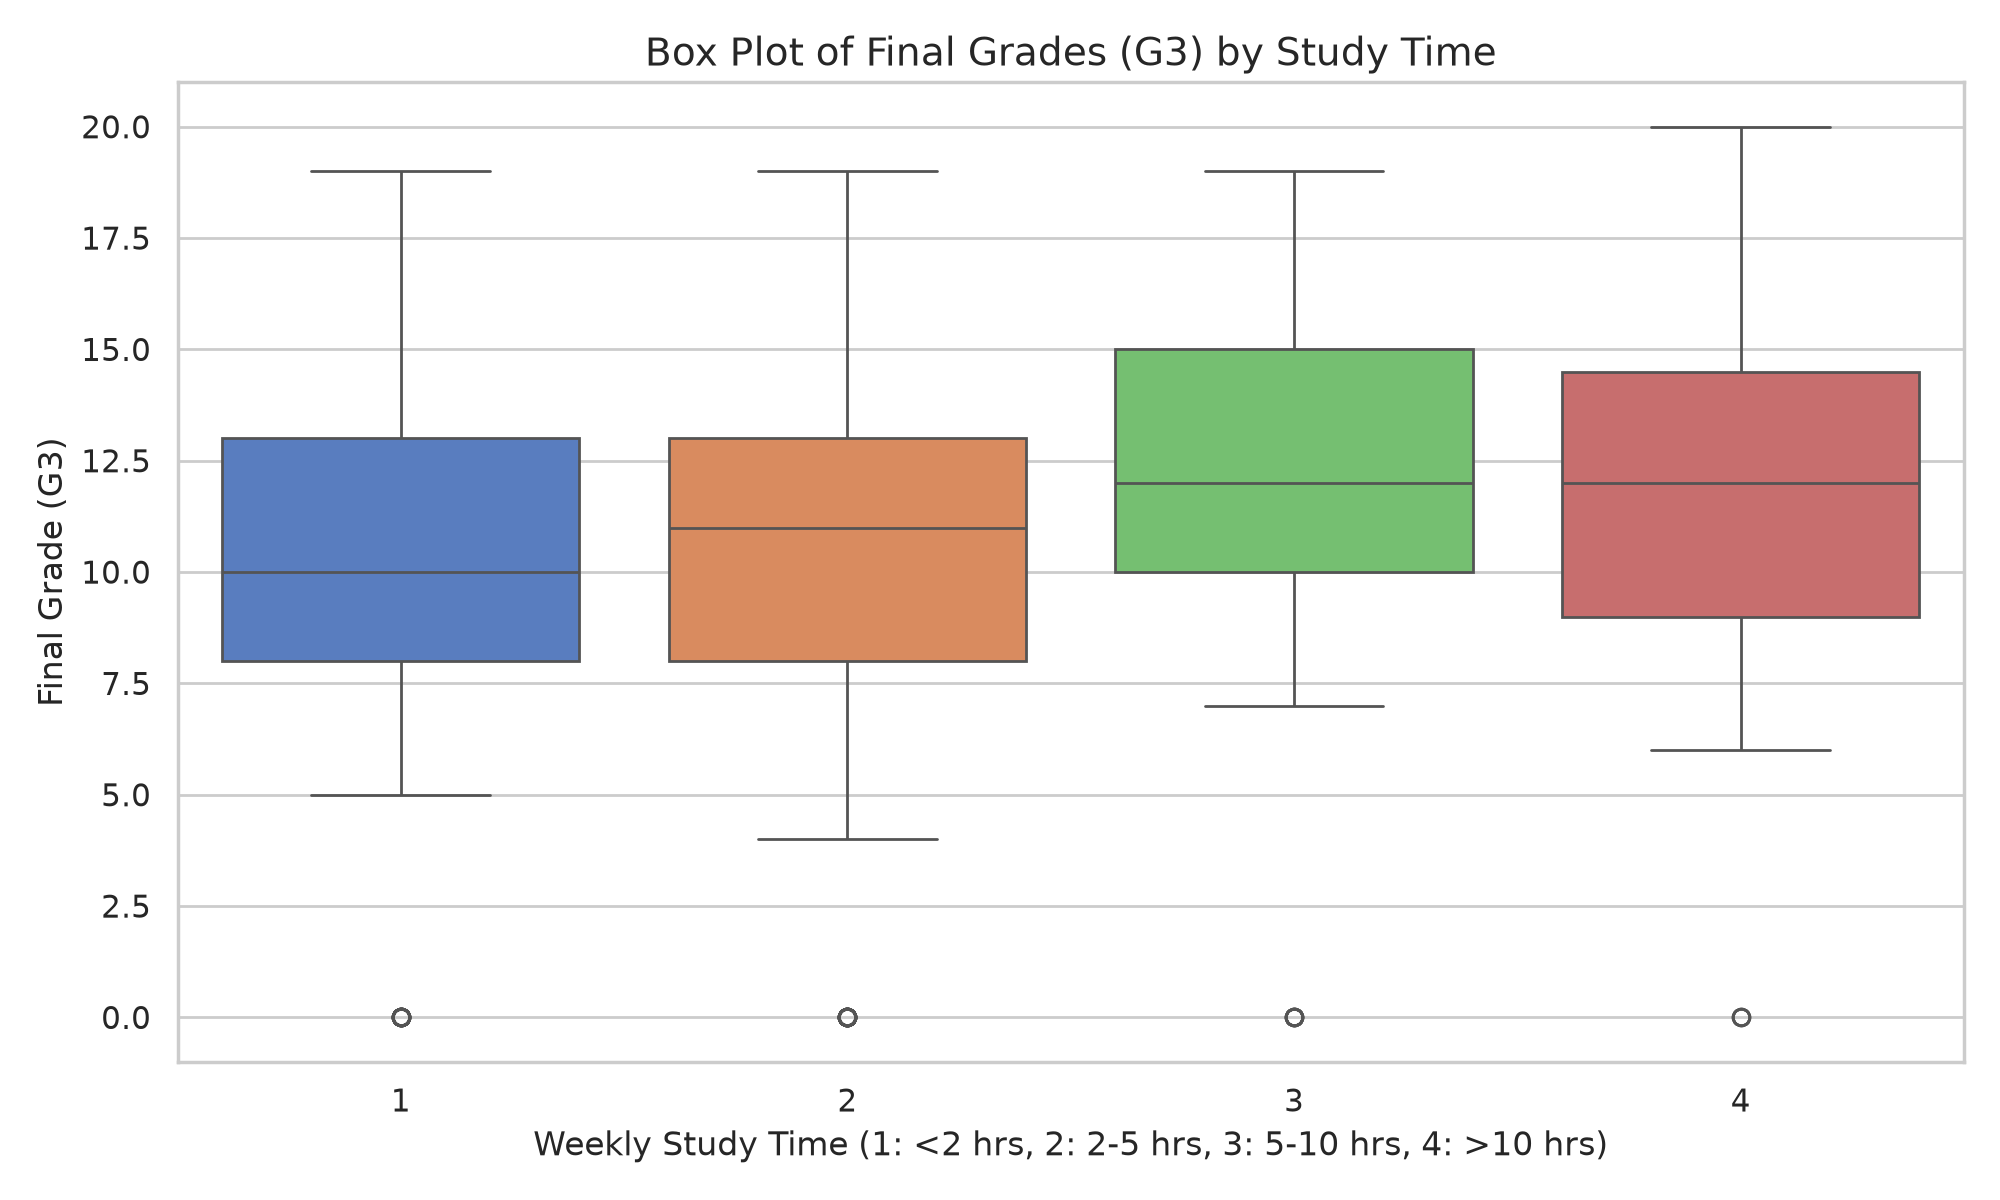
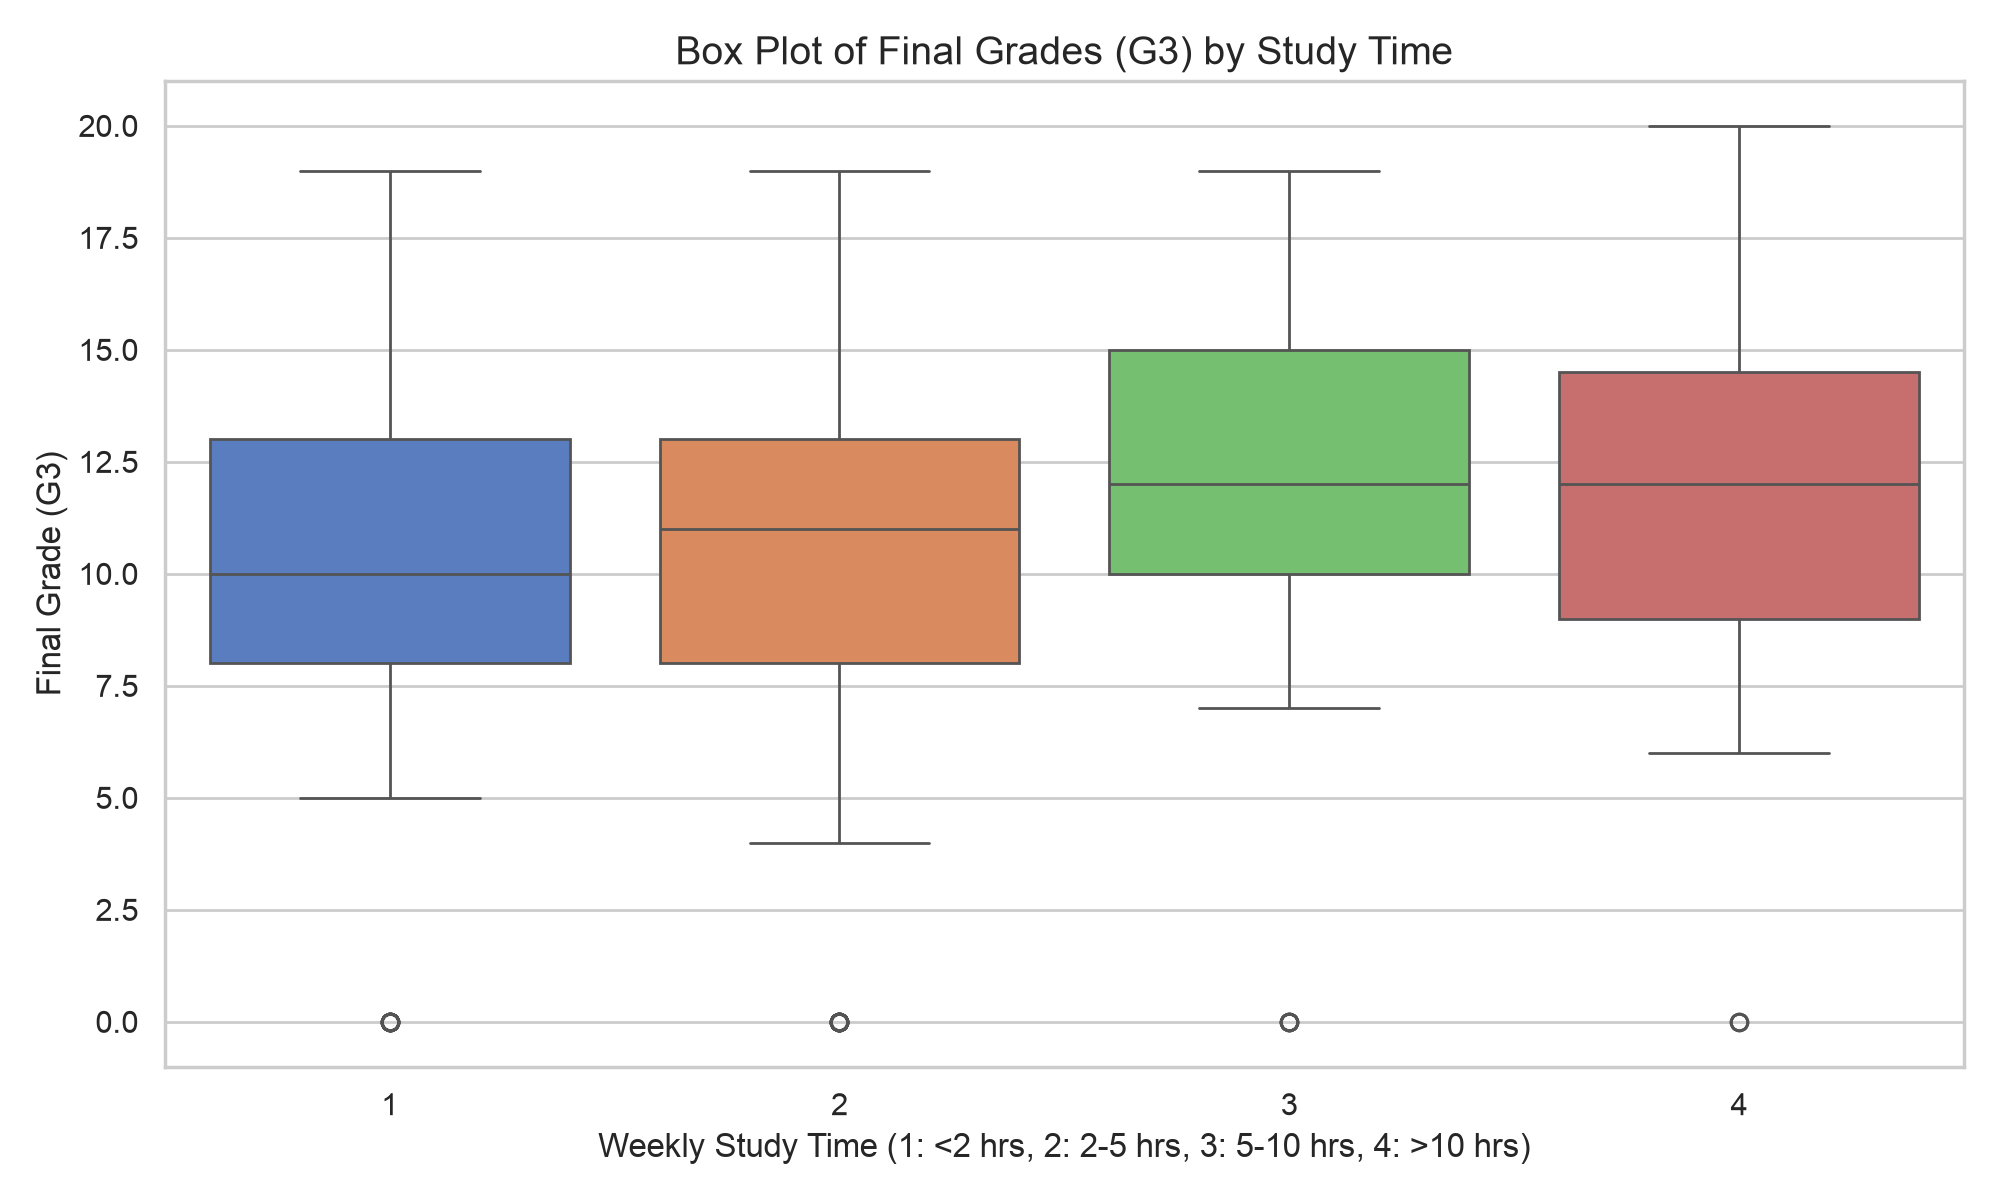
Integrate data preparation, statistics, and visualizations

diff --git a/src/main.py b/src/main.py
@@ -1,4 +1,5 @@
 from statistical_analysis import analyze_studytime
+from visualizations import boxplot, stackedBarPlot
 from pathlib import Path
 from data_preparation import load_data
 
@@ -8,15 +9,26 @@ CHARTS_DIR = BASE_DIR / "charts"
 
 
 def main():
+    # Check if the dataset exists
     if not DATA_PATH.exists():
         raise FileNotFoundError(f"Dataset not found: {DATA_PATH}")
     
+    # Load and prepare the data
     df = load_data(DATA_PATH)
     analysis_df = df[["studytime", "G3"]]
     results = analyze_studytime(analysis_df)
     print(results)
-    # Generate visualizations
 
+    # Generate visualizations
+    boxplot(
+        analysis_df,
+        CHARTS_DIR / "student_studytime_boxplot.png"
+    )
+
+    stackedBarPlot(
+        analysis_df,
+        CHARTS_DIR / "student_studytime_grade_distribution_stacked_bar.png"
+    )
 
 if __name__ == "__main__":
     main()

diff --git a/src/visualizations.py b/src/visualizations.py
@@ -30,7 +30,7 @@ def boxplot(df, output_path):
     output_file.parent.mkdir(parents=True, exist_ok=True)
     plt.savefig(output_file, dpi=200)
     print(f"Plot saved to: {output_file}")
-    plt.show()
+    plt.close()
 
     return output_path
 
